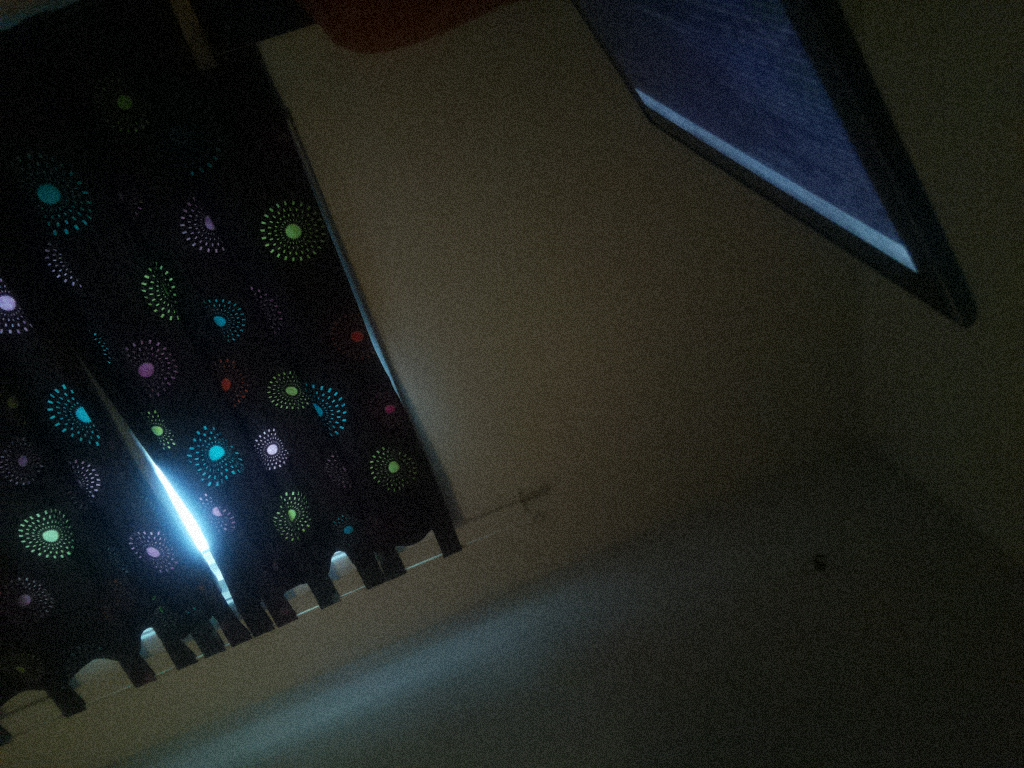
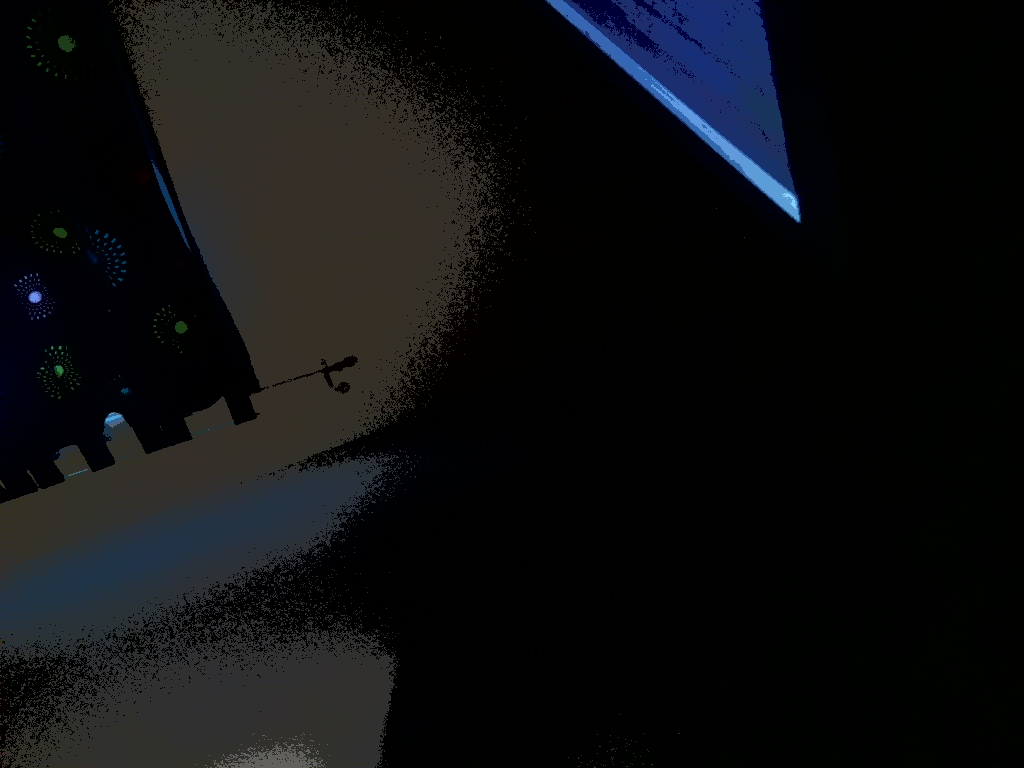
checking if effects worked

diff --git a/Pictures/camera_test02.py b/Pictures/camera_test02.py
@@ -30,7 +30,7 @@ with picamera.PiCamera() as camera:
 		elif i == 4:
 			camera.image_effect = 'film'
 		else:
-			camera.image_effect = 'none'
+			camera.image_effect = 'colorswap'
 		
 		#capture the photo
 		time.sleep(1)
